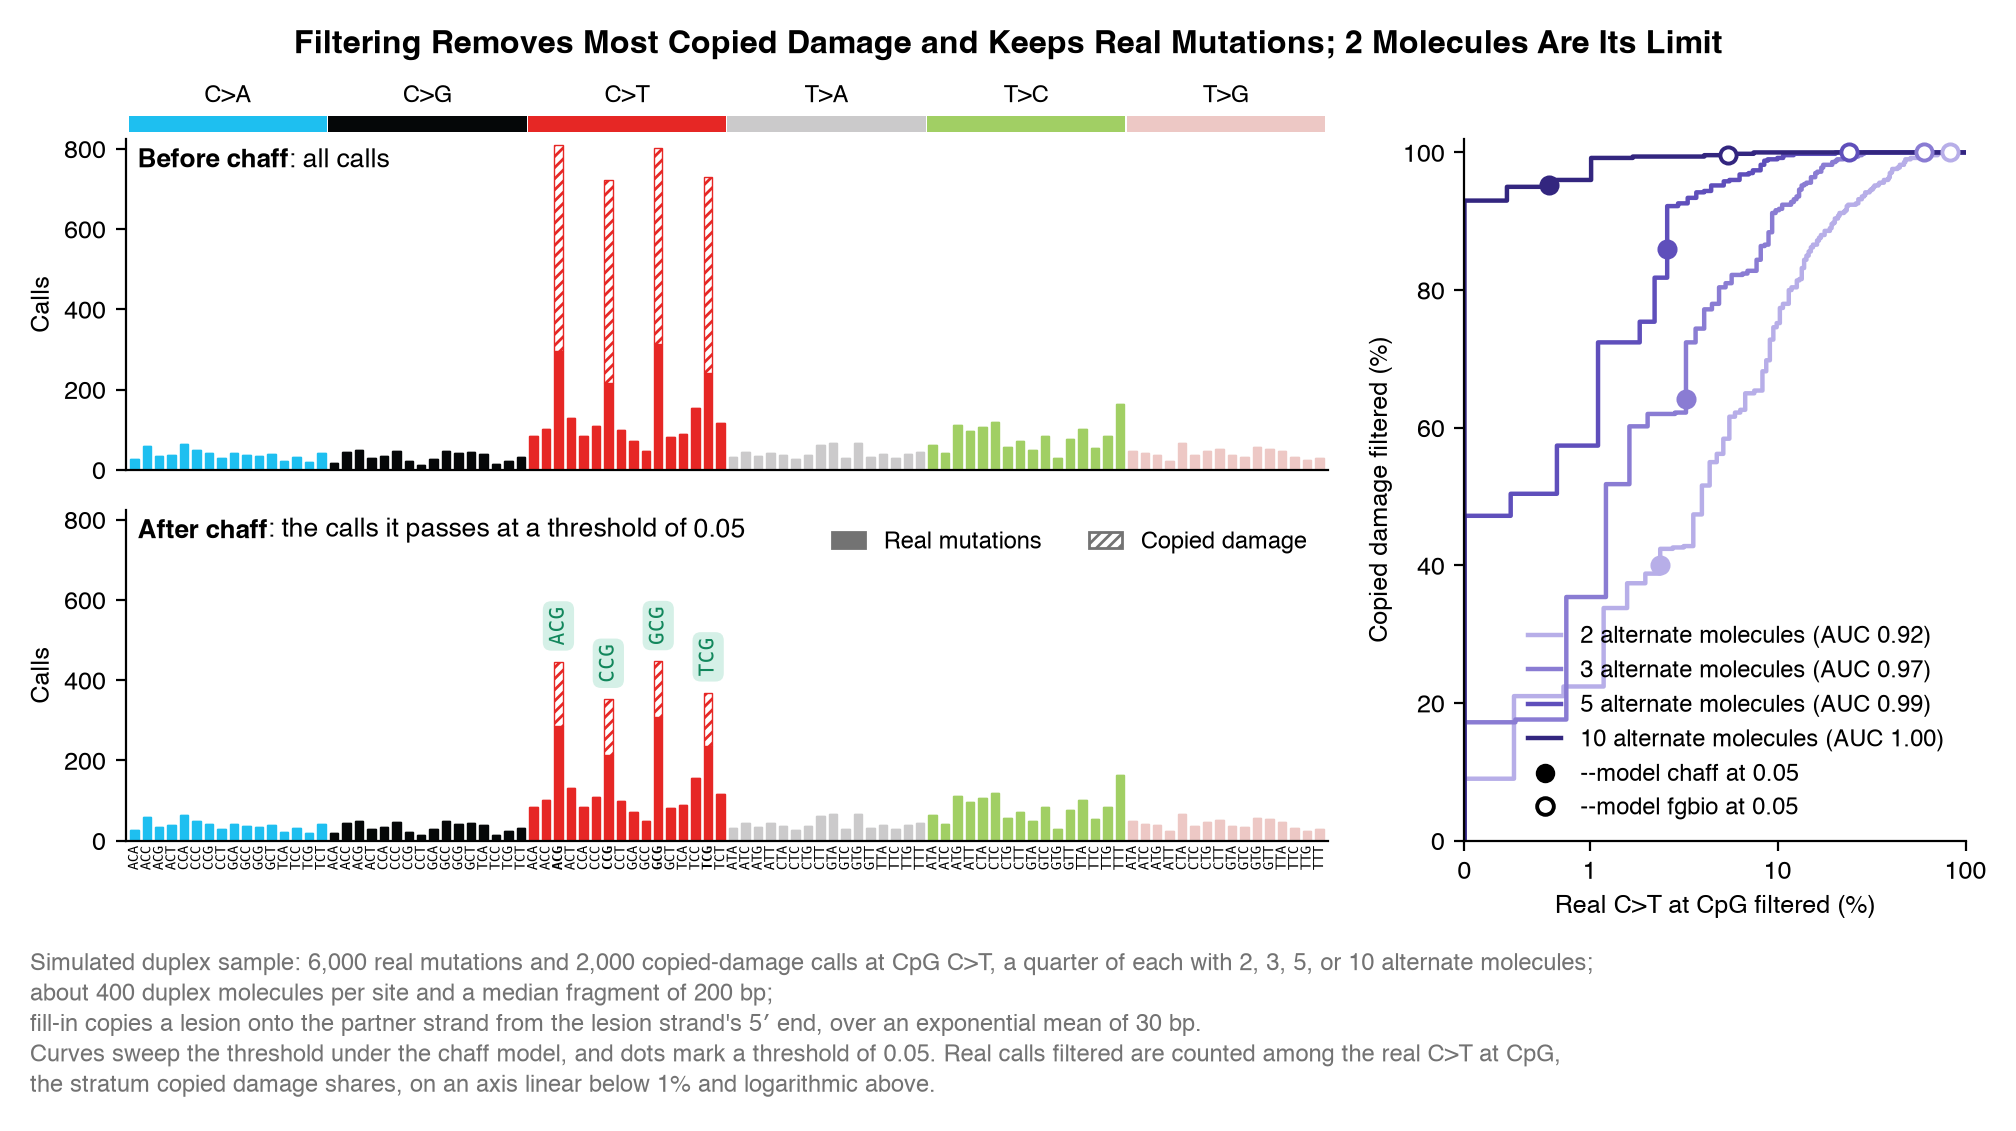
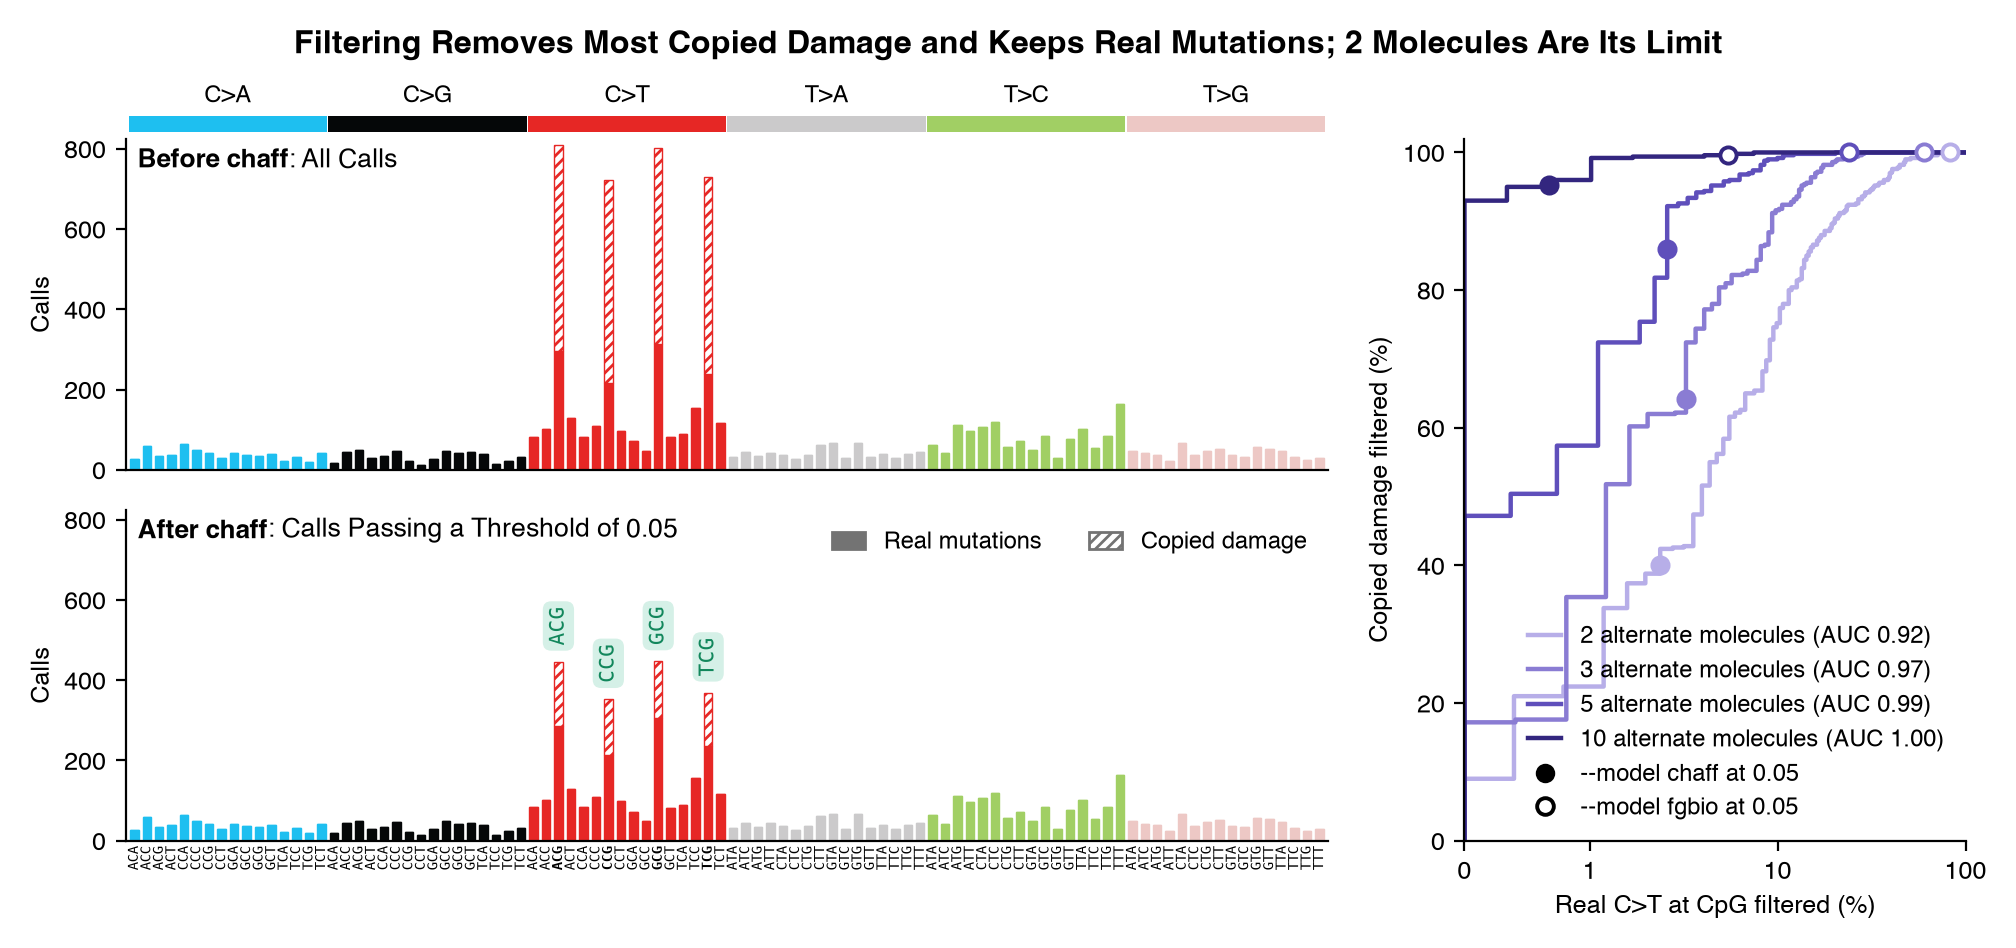
docs: title case every figure and panel title
Panel titles now use Title Case like the figure titles, and the gray
simulation footnotes are gone from the PNGs. The README states each
simulation's parameters once, in the text beside its figure.

diff --git a/tests/figures.py b/tests/figures.py
@@ -31,12 +31,6 @@ CPG_CT = [ch for ch in CHANNELS if ch[2:5] == "C>T" and ch[-1] == "G"]
 ALT_COLOR, REF_COLOR, REAL_COLOR, GRAY, GREEN = "#e34948", "#8c8b86", "#2a78d6", "0.45", "#12875c"
 RAMP = ["#b7aee8", "#8a7cd3", "#5f4fbb", "#33267f"]
 COMPLEMENT = str.maketrans("ACGTN", "TGCAN")
-NOTE = (
-    f"Simulated duplex sample: {REAL:,} real mutations and {ARTIFACTS:,} copied-damage calls at CpG C>T, "
-    f"a quarter of each with {', '.join(map(str, ALT_MOLECULES[:-1]))}, or {ALT_MOLECULES[-1]} alternate molecules;\n"
-    f"about {DEPTH} duplex molecules per site and a median fragment of {MEDIAN} bp;\n"
-    f"fill-in copies a lesion onto the partner strand from the lesion strand's 5′ end, over an exponential mean of {FILL_IN} bp."
-)
 
 
 def spectrum(rng):
@@ -172,11 +166,9 @@ def share(called, truth, kind, field):
     return 100 * sum(a for a, _ in pairs) / sum(n for _, n in pairs)
 
 
-def finish(fig, name, title, note):
+def finish(fig, name, title):
     box = fig.get_tightbbox(fig.canvas.get_renderer())
     width, height = fig.get_figwidth(), fig.get_figheight()
-    fig.text(box.x0 / width, (box.y0 - 0.15) / height, note, fontsize=8.5, color=GRAY, va="top", linespacing=1.4)
-    box = fig.get_tightbbox(fig.canvas.get_renderer())
     fig.text(0.5 * (box.x0 + box.x1) / width, (box.y1 + 0.12) / height, title, ha="center", va="bottom", fontsize=11.5, fontweight="bold")
     fig.savefig(OUT / name, dpi=200, bbox_inches="tight", pad_inches=0.15, facecolor="white")
     plt.close(fig)
@@ -198,7 +190,7 @@ def ends_figure(truth, called):
         ax.set_xlim(0, 400)
         ax.set_xlabel(f"Distance from the lesion strand's {end_label} end (bp)")
         bold = {"fontweight": "bold"}
-        label(ax, 0, 1.04, [("From the lesion strand's ", bold), (f"{end_label} end", {**bold, "color": GREEN})], fontsize=10, va="bottom")
+        label(ax, 0, 1.04, [("From the Lesion Strand's ", bold), (f"{end_label} End", {**bold, "color": GREEN})], fontsize=10, va="bottom")
     axes[0].set_ylabel("Molecules per 10 bp bin (%)")
     axes[0].set_ylim(0, None)
     axes[0].axvline(scale, color=GRAY, lw=0.9, ls="--", zorder=1)
@@ -209,8 +201,7 @@ def ends_figure(truth, called):
         handles.append(Patch(facecolor=color, alpha=0.3, edgecolor=color, label=text) if kind == "reference" else Line2D([], [], color=color, lw=1.8, label=text))
     axes[0].legend(handles=handles, loc="upper right", fontsize=8.5, handlelength=1.6, bbox_to_anchor=(1.0, 0.8))
     fig.tight_layout(w_pad=2.0)
-    finish(fig, "copied-damage-ends.png", "Copied Damage Crowds the Lesion Strand's 5′ End; Real Mutations Follow the Reference",
-           NOTE + "\nThe dashed line is the decay scale chaff learned; the legend's shares are its CDAC and CDRC counts.")
+    finish(fig, "copied-damage-ends.png", "Copied Damage Crowds the Lesion Strand's 5′ End; Real Mutations Follow the Reference")
 
 
 def spectrum_row(ax, truth, keep, title, detail):
@@ -253,8 +244,8 @@ def outcome_figure(truth, chaff, fgbio):
     grid = fig.add_gridspec(2, 2, width_ratios=[2.4, 1], hspace=0.12, wspace=0.16)
     before = fig.add_subplot(grid[0, 0])
     after = fig.add_subplot(grid[1, 0], sharey=before)
-    top = spectrum_row(before, truth, lambda p: True, "Before chaff", ": all calls").max()
-    heights = spectrum_row(after, truth, lambda p: not chaff[p]["filtered"], "After chaff", f": the calls it passes at a threshold of {THRESHOLD}")
+    top = spectrum_row(before, truth, lambda p: True, "Before chaff", ": All Calls").max()
+    heights = spectrum_row(after, truth, lambda p: not chaff[p]["filtered"], "After chaff", f": Calls Passing a Threshold of {THRESHOLD}")
     for ch in CPG_CT:
         i = CHANNELS.index(ch)
         after.text(i, heights[i] + top * 0.05, ch[0] + "CG", rotation=90, ha="center", va="bottom", fontsize=7.5, color="#12875c",
@@ -285,9 +276,7 @@ def outcome_figure(truth, chaff, fgbio):
                 for m, face in (("chaff", "black"), ("fgbio", "white"))]
     ax.legend(handles=handles, loc="lower right", fontsize=8.5, handlelength=1.4)
     fig.subplots_adjust(left=0.07, right=0.99, bottom=0.12, top=0.9)
-    finish(fig, "copied-damage-filtering.png", "Filtering Removes Most Copied Damage and Keeps Real Mutations; 2 Molecules Are Its Limit",
-           NOTE + "\nCurves sweep the threshold under the chaff model, and dots mark a threshold of 0.05. Real calls filtered are counted among the real C>T at CpG,"
-           "\nthe stratum copied damage shares, on an axis linear below 1% and logarithmic above.")
+    finish(fig, "copied-damage-filtering.png", "Filtering Removes Most Copied Damage and Keeps Real Mutations; 2 Molecules Are Its Limit")
 
 
 LIBRARIES = [(f, 30) for f in (0, 0.05, 0.1, 0.2, 0.4, 0.6)] + [(0.4, 15), (0.4, 60)]
@@ -327,7 +316,7 @@ def learning_figure(libs):
     left.set_ylim(0, 70)
     left.set_xlabel("True copied damage (% of calls)")
     left.set_ylabel("Learned artifact fraction (%)")
-    left.set_title("chaff learns each library's damage", fontsize=10, fontweight="bold", loc="left")
+    left.set_title("chaff Learns Each Library's Damage", fontsize=10, fontweight="bold", loc="left")
     inset = left.inset_axes([0.6, 0.1, 0.36, 0.36])
     inset.plot([0, 80], [0, 80], color=GRAY, lw=0.8, ls="--", zorder=1)
     for lib in libs:
@@ -350,14 +339,12 @@ def learning_figure(libs):
     right.set_ylim(0, 1)
     right.set_xlabel("CDAP, the posterior that a call is real")
     right.set_ylabel("Calls that are real")
-    right.set_title("Its posteriors mean what they say", fontsize=10, fontweight="bold", loc="left")
+    right.set_title("Its Posteriors Mean What They Say", fontsize=10, fontweight="bold", loc="left")
     right.legend(loc="lower right", fontsize=8.5, handlelength=1.4)
     shapes = [Line2D([], [], ls="", marker=m, ms=6, color=ALT_COLOR, label=f"{scale} bp fill-in") for m, scale in (("s", 15), ("o", 30), ("D", 60))]
     left.legend(handles=shapes, loc="upper left", fontsize=8.5, handlelength=1.0)
     fig.tight_layout(w_pad=3.0)
-    finish(fig, "copied-damage-learning.png", LEARNING_TITLE,
-           f"{len(libs)} simulated duplex libraries of {LIBRARY_CALLS} C>T calls at CpG, each with a known share of copied damage and fill-in scale and with\n"
-           f"{', '.join(map(str, ALT_MOLECULES[:-1]))}, or {ALT_MOLECULES[-1]} alternate molecules per call; calls are pooled across libraries into bins of CDAP, with bins of fewer than 15 calls left out.")
+    finish(fig, "copied-damage-learning.png", LEARNING_TITLE)
 
 
 LEARNING_TITLE = "The Learned Prior Tracks Each Library's Damage and Calibrates Its Posteriors"

diff --git a/README.md b/README.md
@@ -89,7 +89,7 @@ Fragmenting with a restriction enzyme that leaves blunt ends, as NanoSeq does [[
 - **Use it when:** UMI-bearing adapters are ligated after any polymerase fills in ends, nicks, or gaps, as in Duplex Sequencing; it needs the reference, `--ref`.
 
 As the copied damage diagram shows, the copy runs from the partner's recessed end toward the lesion strand's 5′ end, so copied lesions sit near that end, while a real mutation's molecules sit wherever the reference molecules do.
-On the simulated sample in the figure, the tool learns a scale of 30.3 bp, against a true 30 bp, and 65% of the copied damage's alternate molecules sit within it, against 17% of the real mutations' and of the reference molecules:
+On a simulated duplex sample of 6,000 real mutations and 2,000 copied-damage calls at CpG C>T, a quarter of each with 2, 3, 5, or 10 alternate molecules, about 400 duplex molecules per site, fragments of median length 200 bp, and fill-in that copies a lesion from the lesion strand's 5′ end over an exponential length with a mean of 30 bp, the tool learns a scale of 30.3 bp and 65% of the copied damage's alternate molecules sit within it, against 17% of the real mutations' and of the reference molecules:
 
 ![Distances of alternate and reference molecules from the lesion strand's 5′ and 3′ ends: copied damage piles up near the 5′ end and avoids the 3′ end, while real mutations follow the reference molecules.](.github/img/copied-damage-ends.png)
 
@@ -229,13 +229,13 @@ The deletion at position 300 is not scored.
 To check a threshold, run the tool on germline heterozygous calls from the same reads, down-sampled to the 2 to 10 alternate molecules of your somatic calls: they are real, so the share it filters estimates how often it filters real somatic calls.
 Where a matched normal or a replicate library exists, the somatic calls it shares are a second check.
 
-On simulated libraries with known damage, the learned prior recovers each library's share of copied damage and its scale, and the posteriors match how often calls are real:
+On 8 simulated libraries of 400 C>T calls at CpG, each with a known share of copied damage and fill-in scale, the learned prior recovers each library's share and scale, though it puts a 60 bp scale at 53.5 bp, and the posteriors, pooled into bins of at least 15 calls, match how often calls are real:
 
 ![Left, the learned artifact fraction against the true share of copied damage in 8 simulated libraries, on the identity line, with an inset of the learned against the true fill-in scale; right, the share of calls that are real against their CDAP, near the identity line under the chaff model and far above it under the fgbio model.](.github/img/copied-damage-learning.png)
 
-On the simulated sample of the copied damage section, with a quarter of each kind of call at 2, 3, 5, or 10 alternate molecules, a threshold of 0.05 filters 1,427 of the 2,000 copied-damage calls and 23 of the 1,065 real C>T at CpG, and none of the 4,935 calls in other channels.
+On the simulated sample of the copied damage section, a threshold of 0.05 filters 1,427 of the 2,000 copied-damage calls and 23 of the 1,065 real C>T at CpG, and none of the 4,935 calls in other channels.
 That threshold filters 95% of the copied damage with 10 alternate molecules and 86% with 5, but only 40% with 2, where it also filters 6 of 253 real C>T at CpG.
-The open circles show `--model fgbio`, which uses fgbio's per-call prior from the alternate allele fraction: at the same threshold it filters 1,998 of the copied-damage calls, but also 82%, 60%, 24%, and 5.4% of the real C>T at CpG with 2, 3, 5, and 10 alternate molecules, against at most 3.3% under the `chaff` model:
+In the figure, each curve sweeps the threshold, counting real calls filtered among the real C>T at CpG, the stratum copied damage shares, and the filled dots mark a threshold of 0.05; the open circles show `--model fgbio`, which uses fgbio's per-call prior from the alternate allele fraction: at the same threshold it filters 1,998 of the copied-damage calls, but also 82%, 60%, 24%, and 5.4% of the real C>T at CpG with 2, 3, 5, and 10 alternate molecules, against at most 3.3% under the `chaff` model:
 
 ![The SBS96 spectrum of the simulated sample before and after filtering, where the copied damage at CpG C>T mostly leaves and the other channels stay, and the share of copied damage filtered against the share of real C>T at CpG filtered, by alternate molecules per call and model.](.github/img/copied-damage-filtering.png)
 
